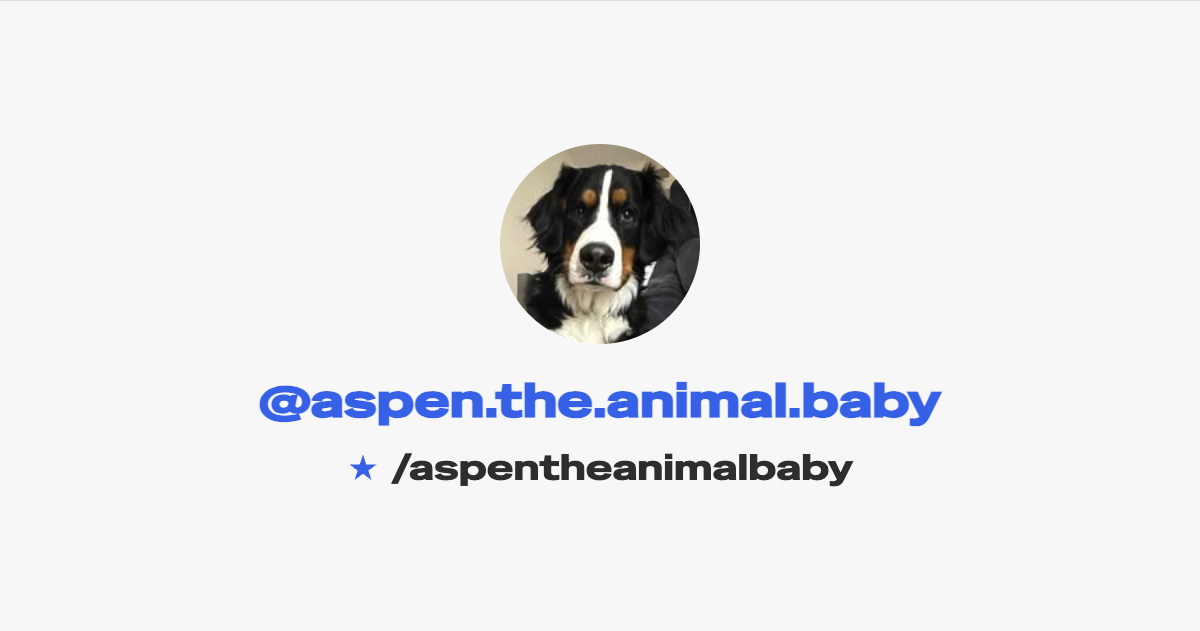
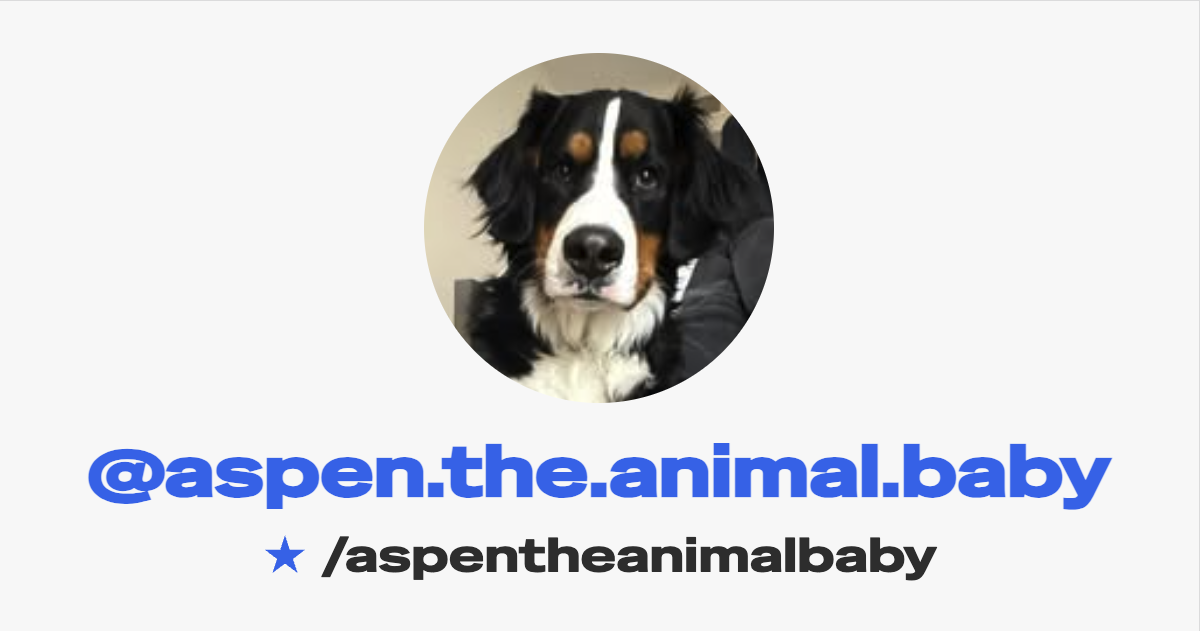
Attempt font fix

Changed region(s): [[0.0617, 0.0602, 0.925, 0.813], [0.2158, 0.8431, 0.8017, 0.9334]]

diff --git a/src/routes/+page.svelte b/src/routes/+page.svelte
@@ -7,66 +7,66 @@
 		{
 			name: 'Instagram',
 			url: 'https://instagram.com/aspen.the.animal.baby',
-			icon: 'instagram',
+			icon: 'instagram'
 		},
 		{
 			name: 'TikTok',
 			url: 'https://www.tiktok.com/@aspen.the.animal.baby',
-			icon: 'tiktok',
+			icon: 'tiktok'
 		},
 		{
 			name: 'Email',
 			url: 'mailto:hello@aspentheanimalbaby.com',
-			icon: 'email',
-		},
+			icon: 'email'
+		}
 	];
 
 	const affiliateLinks = [
 		{
 			title: 'Best Treats',
-			url: 'https://amzn.to/3WvD66j',
+			url: 'https://amzn.to/3WvD66j'
 		},
 		{
 			title: 'Delicious Bonez',
-			url: 'https://amzn.to/3Wv8QIM',
+			url: 'https://amzn.to/3Wv8QIM'
 		},
 		{
 			title: 'Tasty Biscuit',
-			url: 'https://amzn.to/47OoXYg',
+			url: 'https://amzn.to/47OoXYg'
 		},
 		{
 			title: 'Please Peanut Butter',
-			url: 'https://amzn.to/4nxzuMm',
+			url: 'https://amzn.to/4nxzuMm'
 		},
 		{
 			title: 'Good Fetch',
-			url: 'https://amzn.to/47isqhC',
+			url: 'https://amzn.to/47isqhC'
 		},
 		{
 			title: 'Tuff Chewtoy',
-			url: 'https://amzn.to/3Wve6fv',
+			url: 'https://amzn.to/3Wve6fv'
 		},
 		{
 			title: 'Perfect Poops',
-			url: 'https://amzn.to/4hJFrEv',
+			url: 'https://amzn.to/4hJFrEv'
 		},
 		{
 			title: 'Eww Vitamin',
-			url: 'https://amzn.to/4ntfgmE',
-		},
+			url: 'https://amzn.to/4ntfgmE'
+		}
 	];
 
 	const profile = {
 		meta: {
 			description: "Follow Aspen's adventures across all social media platforms",
-			title: 'Aspen the Animal Baby | Instagram, Email | Links',
+			title: 'Aspen the Animal Baby | Instagram, Email | Links'
 		},
 		content: {
 			avatar: aspenProfilePicture,
 			footer: 'Made with ❤ for dogs everywhere',
 			name: '@aspen.the.animal.baby',
-			tagline: 'Adventures 🐕 • Treats 🍖 • Tennis Balls 🎾',
-		},
+			tagline: 'Adventures 🐕 • Treats 🍖 • Tennis Balls 🎾'
+		}
 	};
 
 	let showTooltip = false;

diff --git a/src/routes/social-card/+page.svelte b/src/routes/social-card/+page.svelte
@@ -8,7 +8,9 @@
 </svelte:head>
 
 <!-- Social Card Container - 1200x630 -->
-<div class="flex h-screen w-screen items-center justify-center bg-[var(--color-background-primary)]">
+<div
+	class="flex h-screen w-screen items-center justify-center bg-[var(--color-background-primary)]"
+>
 	<div
 		class="flex h-[630px] w-[1200px] flex-col items-center justify-center bg-[var(--color-background-secondary)]"
 	>
@@ -16,29 +18,25 @@
 		<img
 			src={aspenProfilePicture}
 			alt="Aspen the Dog"
-			class="h-[200px] w-[200px] rounded-full object-cover"
+			class="h-[350px] w-[350px] rounded-full object-cover"
 		/>
 
 		<!-- Handle -->
-		<h1 class="mt-8 text-5xl font-bold text-[var(--color-text-primary)]">
-			@aspen.the.animal.baby
-		</h1>
+		<h1 class="mt-8 text-7xl font-bold text-[var(--color-text-primary)]">@aspen.the.animal.baby</h1>
 
 		<!-- URL with asterisk -->
 		<div class="mt-6 flex items-center gap-3">
 			<!-- Asterisk SVG -->
 			<svg
-				class="h-8 w-8 text-[var(--color-text-primary)]"
+				class="h-12 w-12 text-[var(--color-text-primary)]"
 				fill="currentColor"
 				viewBox="0 0 24 24"
 			>
-				<path
-					d="M12 2l2.4 7.4h7.6l-6 4.6 2.3 7-6.3-4.7-6.3 4.7 2.3-7-6-4.6h7.6z"
-				></path>
+				<path d="M12 2l2.4 7.4h7.6l-6 4.6 2.3 7-6.3-4.7-6.3 4.7 2.3-7-6-4.6h7.6z"></path>
 			</svg>
 
 			<!-- URL -->
-			<p class="text-4xl text-[var(--color-text-secondary)]">/aspentheanimalbaby</p>
+			<p class="text-5xl text-[var(--color-text-secondary)]">/aspentheanimalbaby</p>
 		</div>
 	</div>
 </div>

diff --git a/src/app.html b/src/app.html
@@ -1,8 +1,15 @@
 <!doctype html>
-<html lang="en>
+<html lang="en">
 	<head>
 		<meta charset="utf-8" />
 		<meta name="viewport" content="width=device-width, initial-scale=1" />
+		<link
+			rel="preload"
+			href="/fonts/SpecialGothicExpandedOne-Regular.ttf"
+			as="font"
+			type="font/ttf"
+			crossorigin
+		/>
 		%sveltekit.head%
 	</head>
 	<body data-sveltekit-preload-data="hover">

diff --git a/src/app.css b/src/app.css
@@ -3,10 +3,10 @@
 
 @font-face {
 	font-family: 'Special Gothic Expanded';
-	src: url('./lib/fonts/SpecialGothicExpandedOne-Regular.ttf') format('truetype');
+	src: url('/fonts/SpecialGothicExpandedOne-Regular.ttf') format('truetype');
 	font-weight: normal;
 	font-style: normal;
-	font-display: swap;
+	font-display: block;
 }
 
 @theme {

diff --git a/vite.config.ts b/vite.config.ts
@@ -4,9 +4,5 @@ import { sveltekit } from '@sveltejs/kit/vite';
 import tailwindcss from '@tailwindcss/vite';
 
 export default defineConfig({
-	plugins: [
-		sveltekit(),
-		tailwindcss(),
-		devtoolsJson(),
-	]
+	plugins: [sveltekit(), tailwindcss(), devtoolsJson()]
 });
